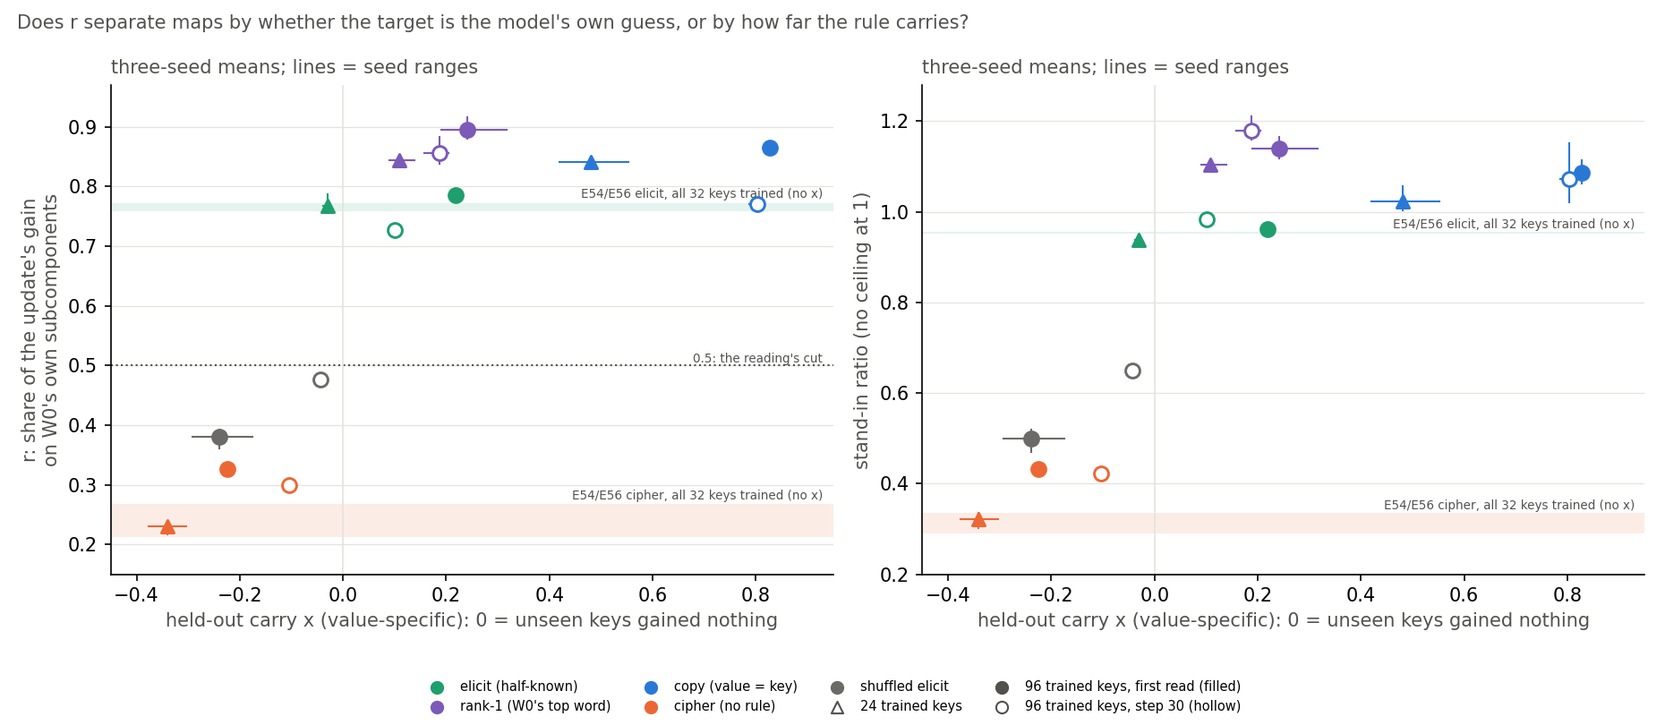
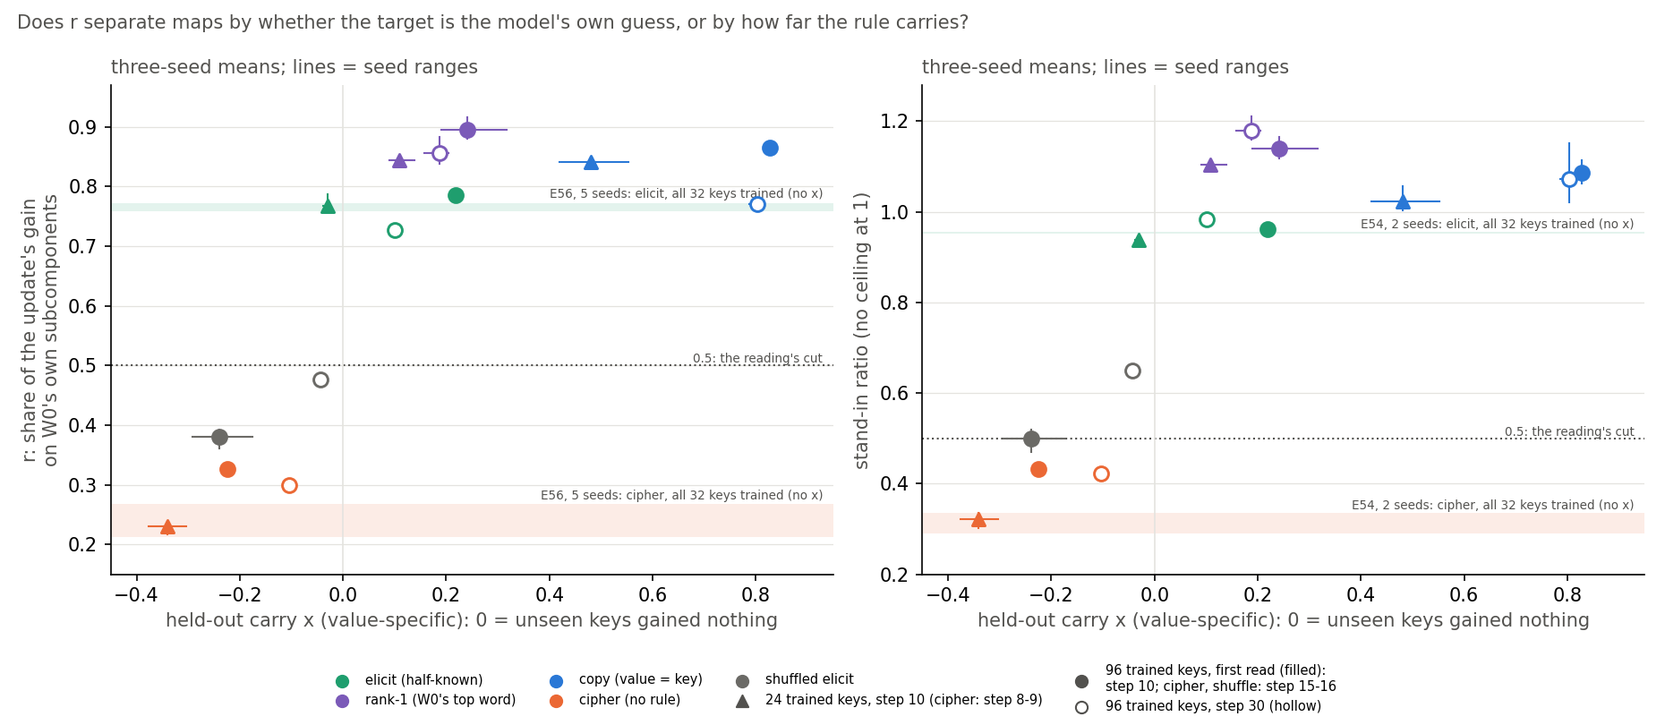
Fix re-gating synthesis per independent check: r agrees with W0's prior (untested beyond it), missing generalising-new-target cell, cipher drift 0.14, read-step rows, carry-order wording, prior baseline paragraph; figure legend/bands/0.5 cut; E58 What we learned superseded text; PENDING line

diff --git a/experiments/open_pair/plot_synthesis.py b/experiments/open_pair/plot_synthesis.py
@@ -123,26 +123,26 @@ def main() -> None:
         (axes[0], "r", "r: share of the update's gain\non W0's own subcomponents"),
         (axes[1], "ratio", "stand-in ratio (no ceiling at 1)"),
     ):
+        source = "E56, 5 seeds" if q == "r" else "E54, 2 seeds"
         for m, (lo, hi) in bd[q].items():
             ax.axhspan(lo, hi, color=COLOR[m], alpha=0.12, lw=0, zorder=0)
             ax.text(
                 0.93,
                 hi + 0.008,
-                f"E54/E56 {m}, all 32 keys trained (no x)",
+                f"{source}: {m}, all 32 keys trained (no x)",
                 fontsize=6.5,
                 color=INK,
                 ha="right",
             )
-        if q == "r":
-            ax.axhline(0.5, color=INK, lw=1.0, ls=":")
-            ax.text(
-                0.93,
-                0.505,
-                "0.5: the reading's cut",
-                fontsize=6.5,
-                color=INK,
-                ha="right",
-            )
+        ax.axhline(0.5, color=INK, lw=1.0, ls=":")
+        ax.text(
+            0.93,
+            0.505,
+            "0.5: the reading's cut",
+            fontsize=6.5,
+            color=INK,
+            ha="right",
+        )
         for m, keys, stage, reads in gs:
             xs, ys = [d["x"] for d in reads], [d[q] for d in reads]
             mx, my = sum(xs) / 3, sum(ys) / 3
@@ -170,7 +170,12 @@ def main() -> None:
     for m in ("elicit", "rank1", "copy", "cipher", "shuffle"):
         axes[1].scatter([], [], s=40, color=COLOR[m], label=NAME[m])
     axes[1].scatter(
-        [], [], s=40, marker="^", color="white", edgecolors=INK, label="24 trained keys"
+        [],
+        [],
+        s=40,
+        marker="^",
+        color=INK,
+        label="24 trained keys, step 10 (cipher: step 8-9)",
     )
     axes[1].scatter(
         [],
@@ -178,7 +183,7 @@ def main() -> None:
         s=40,
         marker="o",
         color=INK,
-        label="96 trained keys, first read (filled)",
+        label="96 trained keys, first read (filled):\nstep 10; cipher, shuffle: step 15-16",
     )
     axes[1].scatter(
         [],

diff --git a/reports/analyses/2026-10-30_analysis_regating-synthesis.md b/reports/analyses/2026-10-30_analysis_regating-synthesis.md
@@ -7,19 +7,24 @@
 Figure: `experiments/open_pair/plot_synthesis.py`. Words as in `GOALS.md` → Terms. Provenance at the end.*
 
 We asked whether a parameter decomposition of the small model can tell a fine-tune that draws out something the model
-already does from one that builds something new. Across five kinds of word map and three seeds, its main reading split
-the maps cleanly by whether the trained answer was the model's own guess for that key, but not by whether the learning
-carried over to unseen keys. For `GOALS.md`, VPD reads elicitation as "the model already produced this answer for this
-cue", not as "a capability that generalises", and a new circuit built from old subcomponents would read as elicited
-too.
+already does from one that builds something new. Across five kinds of word map and three seeds, its main reading agreed
+with the original model's own ranking of the trained answer, high when the answer was the model's guess for that key and
+low when not, and it did not follow whether the learning carried to unseen keys. For `GOALS.md` this is not yet evidence
+that VPD detects elicitation, because the original model's ranking separates these maps by construction, nothing here
+shows the decomposition adds to it, no map had a new answer that carries to unseen keys, and a new circuit built from old
+subcomponents would read as elicited too.
 
 ## The answer
 
-Partly. On the small model, with trigger-to-word maps, the decomposition's readings separate fine-tunes whose answers
-the model already guessed for each key from fine-tunes whose answers it did not. They do not separate a rule that
-carries to unseen keys from a lookup. So VPD reads "already there for this cue", not "a capability that generalises".
-Its unit is the subcomponent, so a new circuit assembled from existing subcomponents would also read as already there.
-This holds on one small model, one decomposition and synthetic maps only.
+On the small model, with trigger-to-word maps, VPD's r agrees with W₀'s prior of the trained answer: maps whose answer
+the model already guessed for each key read high, maps whose answer it did not read low. That prior is how "own guess" is
+defined, so it separates the maps by construction; whether r reads more than the prior is untested. E58's one comparison with a reading that never looks at the decomposition, a steering vector, scored
+steering as the better match, though steering sat on its cut. Among answers the model already guessed, r does not follow
+whether the rule carries to unseen keys. No map has an answer the model did not guess that still carries to unseen
+keys, so a new mechanism that generalises was never tested. The gap between the high and low readings is wide, but the
+shuffled map sits only 0.015 to 0.03 under the 0.5 cut. VPD's unit is the subcomponent, so a new circuit assembled from
+existing subcomponents would also read as already there. This holds on one small model, one decomposition and synthetic
+maps only.
 
 ## What we were trying to test
 
@@ -50,7 +55,9 @@ The first three have targets that are W₀'s own guess for each key; the last tw
   It reads 1 if switching existing subcomponents on carries the whole gain, 0 if none of it. The stand-in ratio is a
   companion reading with no ceiling at 1.
 
-The question in these terms: does r follow whether the target is W₀'s own guess, or whether $x$ is high?
+The question in these terms: does r follow whether the target is W₀'s own guess, or whether $x$ is high? Since "own
+guess" is defined by W₀'s ranking of the target, that ranking alone already sorts the maps; it is the baseline r would
+have to beat to show the decomposition adds anything.
 
 ## What we expected, and why
 
@@ -64,22 +71,35 @@ plan's writer at about 30%. The shuffled map was expected to read like the ciphe
 
 ![Held-out carry x against r and the stand-in ratio for every E58 map, at 24 and 96 trained keys and both read points, three-seed means with seed ranges, E54/E56 bands and the 0.5 cut](../../experiments/open_pair/figures/synthesis.png)
 
-**Reading it.** By the model's own guess. Read the vertical axis of the left panel. Every own-guess map, green, purple
+**Reading it.** By the model's own guess, which is also W₀'s prior ranking of the target. Read the vertical axis of the
+left panel. Every own-guess map, green, purple
 and blue, sits at r 0.72 to 0.92 at 96 trained keys. Every map whose target is not W₀'s guess for that key, orange and
 grey, sits at 0.29 to 0.49. At 24 trained keys the same split reads 0.76 to 0.85 against 0.22 to 0.24. E54 and E56, which
 train all 32 keys, read 0.76 to 0.77 against 0.21 to 0.27, on the same sides of the cut. The gap between the bands is at least 0.24 at every read point,
-over five times the largest seed range of 0.045.
+over five times the largest seed range of 0.045. Every map in the lower band also has carry at or under zero. The
+plot's lower right is empty: no map has a target W₀ did not guess that still carries to unseen keys.
 
-Now the horizontal axis. Inside the upper band carry runs from 0.10 to 0.84 with no order in r. The rank-1 map has the
-highest r at both read points and carries about a fifth. The copy map carries over four fifths at lower r. So r
-is not blind to which map was trained, but what orders it there is not carry. The stand-in ratio, right panel, splits
-the same way: 0.96 to 1.21 against 0.41 to 0.66 at 96 trained keys.
+Now the horizontal axis. Inside the upper band carry runs from 0.10 to 0.84 at 96 trained keys, and from about −0.03
+to 0.55 at 24. r is not in carry order. At 96 trained keys the rank-1 map has the highest r at both read points and
+carries about a fifth, while the copy map carries over four fifths at lower r. Nor is r unrelated to carry. The elicit
+map has both the lowest carry and the lowest r at every read point, and over the nine 96-key reads the rank correlation
+of r with carry is 0.42 at step 30. So r is not blind to which map was trained, but carry is not what orders it there.
+The stand-in ratio, right panel, splits the same way: 0.96 to 1.21 against 0.41 to 0.66 at 96 trained keys.
 
 **The shuffled map** is the sharpest single test. It has elicit's words but not their link to each key. At step 30 it
-reads r 0.47 to 0.49 over three seeds, under the 0.5 cut and 0.17 to 0.19 above the cipher. If r read only the kind of
+reads r 0.47 to 0.49 over three seeds, only 0.015 to 0.03 under the 0.5 cut, and 0.17 to 0.19 above the cipher. If r read only the kind of
 word, it would sit with elicit at 0.72 to 0.74. If it read only the key-to-guess link, it would sit on the cipher at
 0.29 to 0.31. So r mostly reads the model's own guess for that key, and partly whether the word is one the model can
 emit at all. It sits at the cut, not deep under it.
+
+**W₀'s prior as baseline.** The prior here is W₀'s geometric-mean probability of the trained value after its key, one
+number per map, saved in `amend3.json`. It reads 1.4e-6 for the cipher, 1.0e-5 for the shuffle, 5.9e-5 for copy, 1.3e-3
+for elicit and 1.3e-2 for rank-1. It separates the two bands perfectly, by construction, since "own guess" is a cut on
+it. Over the five maps at 96 trained keys, the rank correlation of mean r with the log prior is 0.9 at both read
+points. The one swap is copy, whose r sits above elicit's though its prior is 20 times lower. The one contrast that is
+not just the prior is copy against the shuffle: their priors are about 6 times apart, but r at step 30 is 0.29 apart,
+0.77 against 0.48, where the full prior span of about 10⁴ carries an r span of 0.56. That is five points, one swap and no
+seeds on the prior: suggestive only. So r agrees with W₀'s prior; whether it reads more than the prior is untested.
 
 **The granularity limit.** VPD's unit is the rank-one subcomponent. A new circuit built from old subcomponents, switched
 on in a new pattern, reads as "already there" to r. Nothing in this line can tell the two apart.
@@ -88,8 +108,8 @@ on in a new pattern, reads as "already there" to r. Nothing in this line can tel
 
 | | for the claim | against, or limiting it |
 |---|---|---|
-| **Scored**, filed before each run | The cipher control read "below" on every seed at 96 keys. The ratio half of the within-key-count rule passed at both steps, at its bound: 0.18 and 0.20 against 0.2. The shuffled map read "cipher_like", 0.475 against 0.5, a near miss. Seed 0 reproduced exactly. The filed separation of elicit from cipher in r passed in E54 and E56 at 32 keys and in E58 at 24 keys. | The r half of the within-key-count rule failed at both steps: 0.11 and 0.13 against bounds of 0.07 and 0.09, so "r reads the same across own-guess maps" is false as filed. Amendment 3's test of r against carry across key counts read "untested", because the cipher's r itself rose with the key count. E58's first agreement test and the label's first positive control failed. None is refiled. |
-| **Unscored**, reported with seed ranges | The 0.24 or larger gap between the bands at every read point, seed ranges 0.002 to 0.045. The shuffled map on three seeds, mean 0.477. | The rank correlation of r with carry is 0.02 at step 10 and 0.42 at step 30, over nine points with no power. r falls by 0.04 to 0.10 from step 10 to step 30 on every own-guess map, copy's by 0.09 while its carry stays near 0.8, while the shuffled map's r rises from 0.36-0.39 to 0.47-0.49. The cipher's r rose from 0.23 to 0.30 with the key count. |
+| **Scored**, filed before each run | The cipher control read "below" on every seed at 96 keys. The ratio half of the within-key-count rule passed at both steps, at its bound: 0.18 and 0.20 against 0.2. The shuffled map read "cipher_like", 0.475 against 0.5, a near miss. Seed 0 reproduced exactly. The filed separation of elicit from cipher in r passed in E54 and E56 at 32 keys and in E58 at 24 keys. The held-out label's positive control holds at 96 keys: the copy map read "reuses" on all three seeds. | The r half of the within-key-count rule failed at both steps: 0.11 and 0.13 against bounds of 0.07 and 0.09, so "r reads the same across own-guess maps" is false as filed. Amendment 3's test of r against carry across key counts read "untested", because the cipher's r itself rose by 0.14 with the key count. E58's first agreement test and the label's first positive control failed. E58's comparison with steering, a reading that never looks at the decomposition, scored "steering better" for both r and the ratio, with steering's elicit values on its cut. None is refiled. |
+| **Unscored**, reported with seed ranges | The 0.24 or larger gap between the bands at every read point, seed ranges 0.002 to 0.045. The shuffled map on three seeds, mean 0.477. | The rank correlation of r with carry is 0.02 at step 10 and 0.42 at step 30, over nine points with no power. r falls by 0.04 to 0.10 from step 10 to step 30 on every own-guess map, copy's by 0.09 while its carry stays near 0.8, while the shuffled map's r rises from 0.36-0.39 to 0.47-0.49. Every low-band map has carry at or under zero, so no map tests a target W₀ did not guess that carries. W₀'s prior alone ranks the five maps as r does, rank correlation 0.9 with one swap. |
 
 The within-key-count failure, worded as Fable advised. r is not blind to which map was trained. Inside the own-guess
 band the three maps differ by 0.11 to 0.13, about three times the largest seed range, and the order, top word above
@@ -99,20 +119,34 @@ tree, branch 3, keeps the one-seed line as a reported number and never as a scor
 
 ## What we learned
 
-For the user's question, can VPD distinguish elicitation from a new mechanism: on the 67M with trigger maps, VPD's
-readings distinguish "the model already produced this answer for this cue" from "it did not". They do not distinguish
-"the learned rule generalises" from "it is a lookup". If elicitation means the former, VPD reads it; if it means a
-capability that carries, VPD does not. Under the granularity limit, a new circuit assembled from existing subcomponents
-reads as the former. A single r means nothing off its row: it moves by about 0.1 with read step and key count on its
-own.
+For the user's question, can VPD distinguish elicitation from a new mechanism: on the 67M with trigger maps, r agrees
+with whether W₀ already ranked the trained answer as its guess for that key. That ranking defines the split, so it is
+the baseline r must beat, and nothing here shows that r beats it. Among answers W₀ already guessed, r does not follow
+whether the learned rule carries to unseen keys. Whether r would read a new answer that does carry as new was never
+tested, because no such map was trained. Under the granularity limit, a new circuit assembled from existing
+subcomponents reads as elicited. A single r means nothing off its row: it moves by about 0.1 with read step and key count
+on its own.
 
 ## How compelling is the evidence
 
 - **One model, one decomposition seed, synthetic maps.** Everything here is the 67M, one VPD decomposition and
   trigger-to-word maps. No real post-training update has been read through this table.
 - **Seeds.** Three fine-tune seeds per map and point, five for E56's pair. One key split per key count.
-- **Rows.** The bands hold within a row: same keys, read step and key count. Across rows r drifts by about 0.1, so
+- **Rows.** The bands hold within a row of the same keys and key count. At step 30, and in E54 and E56, which compare
+  at matched update size, every map is read at the same step. The first reads are not same-step. At 96 keys the
+  own-guess maps are read at step 10 and the cipher and shuffle at steps 15 to 16, their first step over the gate. At 24
+  keys step 10 sits against the cipher's update-size-matched steps 8 to 9. Across rows r drifts by about 0.1, so
   comparisons across rows are not used.
+- **No baseline that ignores the decomposition was scored.** W₀'s prior of each target sorts these maps by
+  construction; set beside r after the fact, it ranks the five maps with one swap. The one such comparison filed,
+  steering in E58, scored "steering better".
+- **One empty cell.** Every map whose target W₀ did not guess has carry at or under zero, so the claim that r does not
+  follow carry is tested only among own-guess maps.
+- **Earlier tables agree, and leave the same cell empty.** E60's table collects them with E54. There, E46's copy
+  map reads r 0.76 to 0.80 against random maps at 0.27 to 0.29. E53's lowercase reads 0.75 to 0.77 against ciphers at
+  0.12 to 0.17. In E53 and E54 the high member's targets are ones W₀ already favours there, so W₀'s prior would sort those
+  pairs too; for E46's copy map W₀'s prior was not read. None has a held-out carry, so they are not plotted and cannot
+  fill the empty cell.
 - **The shuffled map sits at the cut**, 0.015 to 0.03 under it on three seeds; its scored read is one seed.
 - **What r is blind to.** A new circuit built from old subcomponents; whether learning carries.
 
@@ -122,7 +156,9 @@ own.
   noise, though not by carry.
 - The shuffled map's r rises with training while every other map's falls. Its trained gain matches the cipher's, so it
   is not under-trained. We assert no cause.
-- The cipher's r rose from 0.23 to 0.30 between 24 and 96 trained keys.
+- The cipher's r rose from 0.23 at 24 trained keys, read at its update-size-matched step, to 0.37 at 96 trained keys
+  at step 10, a drift of 0.14. That 96-key state had barely learned its values; at its first step over the gate it reads
+  0.32 to 0.33.
 
 ## The next question
 
@@ -136,6 +172,12 @@ are a 67M artefact, and no re-gating claim leaves the testbed without a real-mod
 
 ## Not run
 
+- **Whether r reads more than W₀'s prior.** The test that would decide it is a prior-matched cipher: a lookup whose
+  values W₀ gives at copy's prior, about 6e-5, read beside r. Fable's sketch is in
+  `reports/plans/2026-10-30_advice_regating-baseline-FABLE.md`, not approved.
+- **The missing cell.** A map whose target W₀ does not guess for that key yet carries to unseen keys, a new mechanism
+  that generalises, such as a fixed word per first letter of the key. Without it, whether r would read such an update as
+  new is untested.
 - Any of this on Qwen3-1.7B or another model; any real post-training update.
 - A second decomposition seed; more key splits; key counts other than 24, 32 and 96 trained.
 - What orders the three own-guess maps' r: trained gain, trained-key probability or the value pool. Fable advised
@@ -154,10 +196,14 @@ are a 67M artefact, and no re-gating claim leaves the testbed without a real-mod
 - **The shuffle's cut of 0.5** is Fable's midpoint of the cipher and elicit at step 30, not a published threshold.
 - **The figure.** Fable asked for every map with seed ranges. E54's and E56's states train all 32 keys and have no
   held-out carry, so they are drawn as horizontal bands, not points: E56's five seeds for r and E54's two seeds for the
-  ratio. The 24-key cipher is read at its update-size-matched step, 8 to 9, as E58 filed it. Under-gate states, such as
+  ratio. The 24-key cipher is read at its update-size-matched step, 8 to 9, as E58 filed it. At 96 keys the first read
+  of the cipher and shuffle is their first step over the gate, 15 to 16, against step 10 for the own-guess maps, so the
+  filled points are not same-step; only step 30 is. Under-gate states, such as
   the 96-key cipher at step 10, have no readable carry and are left out.
 - **Numbers updated from Fable's text.** Fable's low band, 0.29 to 0.47, and gap of 0.25 predate Amendment 5. With its two
-  shuffle seeds the low band reads 0.29 to 0.49 and the gap at step 30 is 0.24.
+  shuffle seeds the low band reads 0.29 to 0.49 and the gap at step 30 is 0.24. Fable's baseline advice puts copy and
+  the shuffle 0.4 apart in r at step 30; `amend4.json` and `amend5.json` give 0.771 against a mean of 0.477, 0.29 apart.
+  The rank correlation of 0.9 was recomputed here from the plotted means.
 
 ## Provenance
 

diff --git a/reports/analyses/2026-10-30_analysis_e58-open-pair.md b/reports/analyses/2026-10-30_analysis_e58-open-pair.md
@@ -720,8 +720,8 @@ It was expected to read 0.40 to 0.55 per seed, first over the gate at step 14 to
 **What it read.** Mostly the key-conditional guess, partly the token kind. The three seeds read r 0.475, 0.485 and
 0.471 at step 30, mean 0.477, every one under 0.5. Every seed first cleared the gate at step 15, with r 0.36 to 0.39
 there, beside the cipher's 0.32 to 0.33. The stand-in ratio at step 30 was 0.64 to 0.66. Each seed's trained-key gain
-was 16.4 to 17.5 at step 30, beside the cipher's 16 to 18. The figure of Amendment 4 shows seed 0; the other two sit
-within 0.01 of it.
+was 16.4 to 17.5 at step 30, beside the cipher's 16 to 18. The figure of Amendment 4 shows seed 0. At step 30 the other
+two sit within 0.01 of it; at the gate step seed 2 reads 0.360 against seed 0's 0.388.
 
 | shuffled map | gate step, r | step 30: r | ratio | $G_\text{spec}$ | carry $x$ |
 |---|---|---|---|---|---|
@@ -737,27 +737,24 @@ new circuit built from old subcomponents would read as old.
 ## What we learned
 
 For `GOALS.md`'s question, new capabilities or strengthening, the decomposition answers a narrower question than
-behaviour does. On this map, r and the stand-in ratio report that the gain runs through subcomponents W₀ already had,
-three seeds each, with the same values as when every key was trained. Behaviour reports that no rule generalises to
-unseen keys. Both can be true at once on a lookup over words the model already says. Amendment 1 confirms the lookup.
-It also removes the label's standing: its positive control failed, so no held-out behavioural label is yet earned on the
-67M, and r and the stand-in ratio have nothing behavioural to be scored against. They do stay level across three
-maps whose held-out carry runs from none to half, so they do not measure carry. Ask #14 stays open.
+behaviour does. At 24 trained keys, r and the stand-in ratio report that the elicit map's gain runs through
+subcomponents W₀ already had, on three seeds, while behaviour reports that nothing carries to unseen keys. Both can be
+true at once on a lookup over words the model already says, and Amendment 1 confirms the lookup. At 24 keys the held-out
+label's positive control failed.
 
-Amendments 2 and 3 gave carry room to move. With four times the keys every map carried further: the half-known map from
-none to a fifth, then a tenth, of its trained gain, and the copy map past the label's bar. So the held-out label now has
-a positive control, on one seed. r and the stand-in ratio stayed within their filed tolerances on all three maps, but the
-no-rule cipher's r rose with the key count, so the filed test of whether they follow carry reads "untested". What stands
-is the level picture: across maps whose carry runs from a fifth to four fifths, r sits at 0.78 to 0.89. Under the
-granularity limit, that says the gains run through subcomponents W₀ already has, which a new circuit of old
-subcomponents would also show.
+Amendments 2 and 3 gave carry room to move. With 96 trained keys every map carried further, and the copy map cleared the
+label's bar; Amendment 4 showed it on all three seeds, so the label has a positive control at 96 keys. The filed test of
+whether r follows carry across key counts reads "untested", because the no-rule cipher's r itself rose by 0.14 with the
+key count.
 
-Amendment 4 tested that level picture over three seeds, and it does not hold as filed. r differs between the three maps
-by more than twice its seed noise, at both read steps, though not by Fable's 0.15. At the first read the map with the
-highest r, rank-1, is not the one that carries most, so r does not rank these maps by carry. The shuffled map, with the
-elicit map's words but no link to the model's guess per key, reads r 0.47, under the filed cut and nearer the cipher
-than elicit. For `GOALS.md`, what r reads differs between these maps, but not as how far what each learned carries; under
-the granularity limit a new circuit of old subcomponents reads the same way.
+Amendment 4 replaced the one-seed level picture, and Amendment 5 added two shuffle seeds. Over three seeds r differs
+between the three own-guess maps by more than twice its seed noise at both read steps, so r is not level across them.
+Its order is not carry order: rank-1 has the highest r and carries about a fifth, while copy carries over four fifths at
+lower r. All three stay far above the cipher. The shuffled map, elicit's words with no link to the model's guess per key,
+reads r 0.477 over three seeds, under the cut but only 0.015 to 0.03 below it. So r agrees with whether the target is
+W₀'s own guess for that key, which W₀'s prior already gives; whether r reads more than that prior is untested. No map
+here has a target W₀ does not guess that still carries to unseen keys. Under the granularity limit a new circuit of old
+subcomponents reads the same way. Ask #14 stays open.
 
 ## How compelling is the evidence
 

diff --git a/docs/research_log/PENDING.md b/docs/research_log/PENDING.md
@@ -8,4 +8,4 @@ clerk: find it in the changelog rather than re-adding it (friction 84, 117).
 A flush applies every line to `parts/` (README.md → Layout), rebuilds, republishes, and moves the lines to the changelog row it writes, leaving this list empty.
 
 - 2026-10-30 regating-lead: E58 Amendments 2, 3, 4 and 5 (A2-A3 flushed in v148; this line supersedes that text where it differs): reports/analyses/2026-10-30_analysis_e58-open-pair.md §§ "Amendment 2", "Amendment 3", "Amendment 4", "Amendment 5" (opening answer updated) + notebooks/E58_open_pair.ipynb (figures a3_carry, a3_shift, a4_within, a4_shuffle; A5 cell) + experiments/TRIED.md rows "E58 Amendment 2/3/4" (A4 row carries A5) · log places it touches: E58 card, claims table, step-2 status, timeline 2026-10-30 · At 96 trained keys every map carried further and the copy map reads "reuses" on all three seeds (the held-out label's positive control), but over three seeds r differs between the three own-guess maps by more than seed noise (filed within-key-count rule fails at steps 10 and 30; at step 10 not in carry order, rank-1 highest r), so the one-seed "r reads the same" line is dropped; the shuffled elicit map reads r 0.475, cipher_like as filed but near the 0.5 cut, and Amendment 5's seeds 1-2 read 0.485 and 0.471 (mean 0.477, unscored rule: "mostly the key-conditional guess, partly the token kind" stands; no new measurement code, no separate review); Amendment 3's cross-key-count test stays "untested" (cipher r drift 0.14); granularity limit: a new circuit of old subcomponents reads as old.
-- 2026-10-30 regating-lead: re-gating line synthesis (E54, E56, E58 with Amendments 1-5): reports/analyses/2026-10-30_analysis_regating-synthesis.md, figure experiments/open_pair/figures/synthesis.png (plot_synthesis.py) · log places it touches: re-gating claims table, Q-status, overview "Now", timeline 2026-10-30 · On the 67M with trigger maps, r and the stand-in ratio read in the same row separate fine-tunes whose targets are the model's own key-conditional guesses (r 0.72-0.92 at 96 trained keys, 0.76-0.85 at 24) from those whose targets are not (ciphers and the shuffled map, 0.29-0.49; 0.22-0.24), gap >= 0.24, and that separation does not track held-out carry (x 0.10-0.84 in the top band, no order); the filed within-key-count rule failed on r and Amendment 3's cross-key-count test is untested; so VPD reads "already produced for this cue", not "a capability that generalises"; granularity limit: a new circuit of old subcomponents reads as old; fixed-shift work set aside; next: E45 Qwen anchors through the same table (gated by their own plan).
+- 2026-10-30 regating-lead: re-gating line synthesis (E54, E56, E58 with Amendments 1-5): reports/analyses/2026-10-30_analysis_regating-synthesis.md, figure experiments/open_pair/figures/synthesis.png (plot_synthesis.py) · log places it touches: re-gating claims table, Q-status, overview "Now", timeline 2026-10-30 · Corrected 2026-10-30 after the independent check (reports/reviews/2026-10-31_review_regating-synthesis-check.md): on the 67M with trigger maps, r agrees with W₀'s prior of the trained value: high for maps whose targets are the model's own key-conditional guesses (r 0.72-0.92 at 96 trained keys, 0.76-0.85 at 24), low for those whose are not (ciphers and the shuffled map, 0.29-0.49; 0.22-0.24), gap >= 0.24; the prior defines "own guess", so it separates the bands by construction (rank correlation of r with log prior 0.9 over five maps, one swap) and whether r reads more than the prior is untested (no non-VPD baseline scored; E58's steering comparison scored "steering better"); among own-guess maps r is not in carry order (x 0.10-0.84 at 96 keys); the cell "target not W₀'s guess yet carries to unseen keys" is empty, so a new mechanism that generalises was never tested; the shuffle sits only 0.015-0.03 under the 0.5 cut; the filed within-key-count rule failed on r and Amendment 3's cross-key-count test is untested (cipher drift 0.14); granularity limit: a new circuit of old subcomponents reads as elicited; fixed-shift work set aside; Not run: the prior-matched cipher and a first-letter rule map; next: E45 Qwen anchors through the same table (gated by their own plan).
